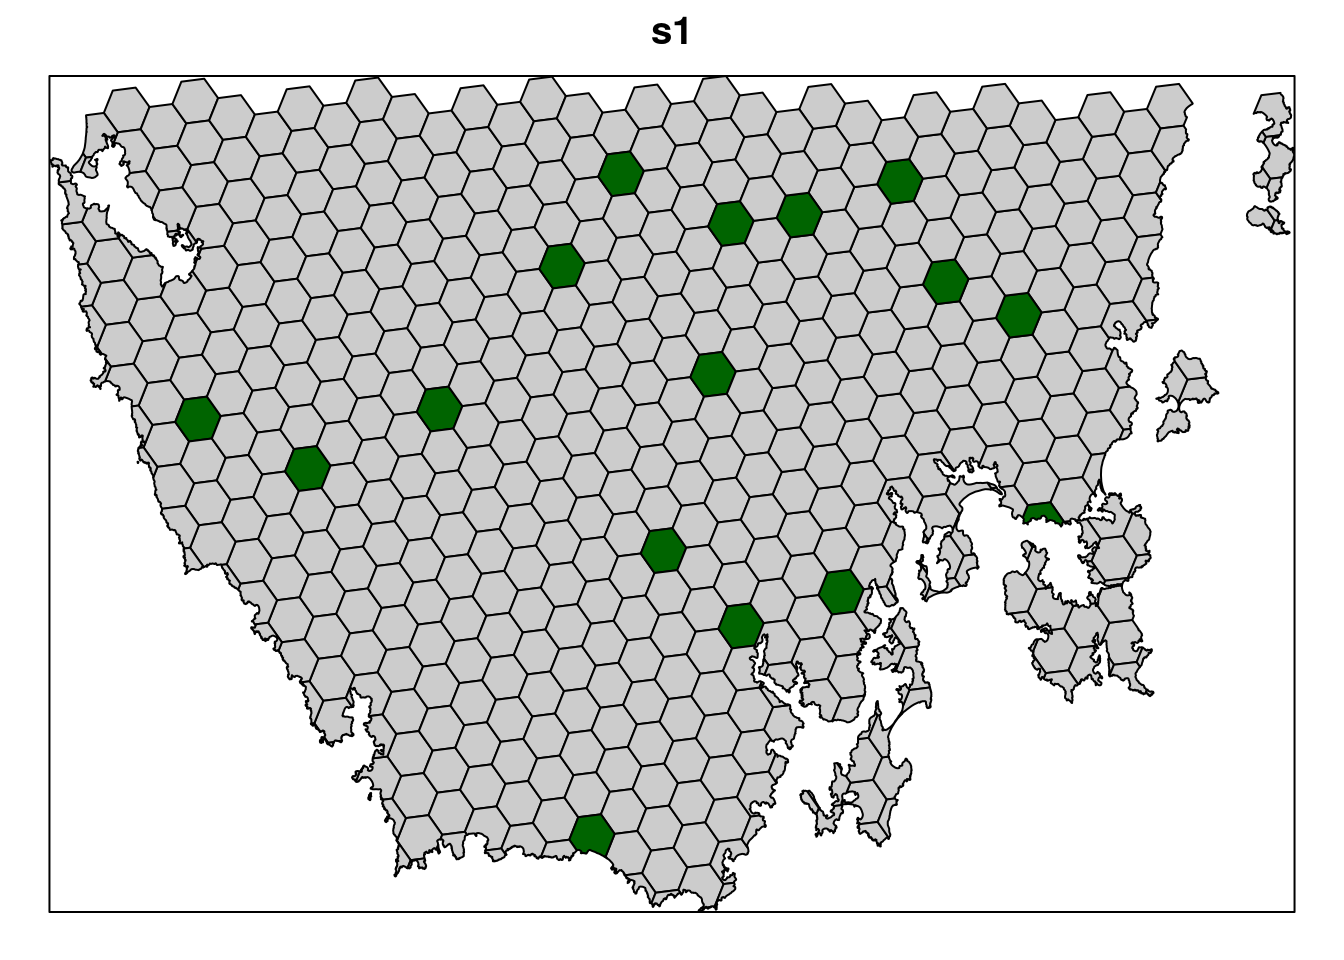
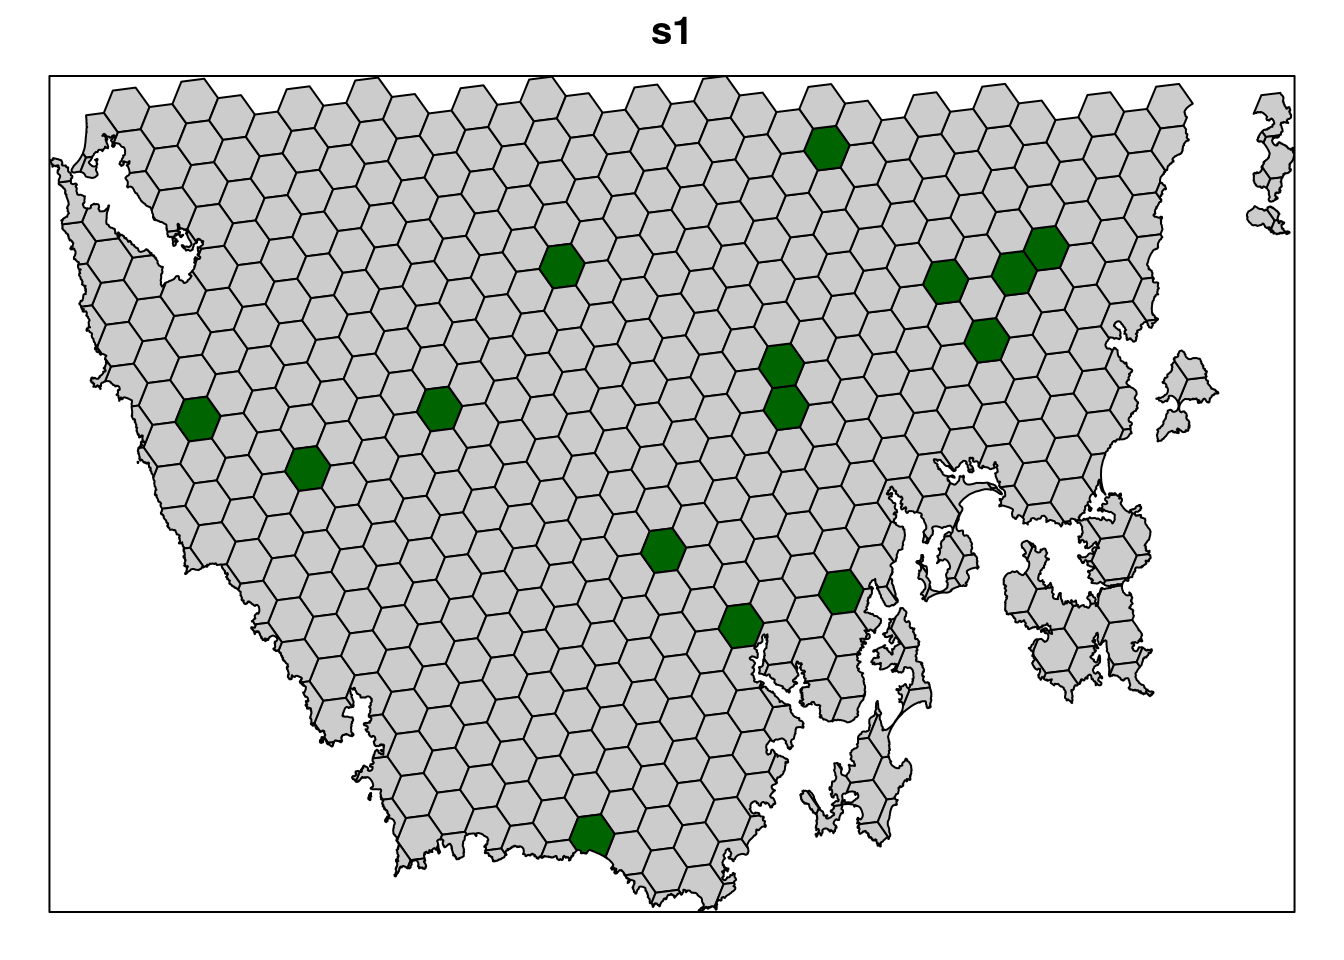
Update the book

diff --git a/spatial-prioritizations.html b/spatial-prioritizations.html
@@ -6,7 +6,7 @@
   <meta http-equiv="X-UA-Compatible" content="IE=edge" />
   <title>Chapter 5 Spatial prioritizations | PRIORITIZR WORKSHOP MANUAL</title>
   <meta name="description" content="Manual for the prioritizr workshop held at Massey University, Palmerston North, New Zealand." />
-  <meta name="generator" content="bookdown 0.21.9 and GitBook 2.6.7" />
+  <meta name="generator" content="bookdown 0.21.10 and GitBook 2.6.7" />
 
   <meta property="og:title" content="Chapter 5 Spatial prioritizations | PRIORITIZR WORKSHOP MANUAL" />
   <meta property="og:type" content="book" />
@@ -24,7 +24,7 @@
 <meta name="author" content="Jeffrey O. Hanson" />
 
 
-<meta name="date" content="2021-04-07" />
+<meta name="date" content="2021-04-12" />
 
   <meta name="viewport" content="width=device-width, initial-scale=1" />
   <meta name="apple-mobile-web-app-capable" content="yes" />
@@ -244,13 +244,13 @@ code span.wa { color: #60a0b0; font-weight: bold; font-style: italic; } /* Warni
 <pre><code>## # A tibble: 1 x 2
 ##   summary  cost
 ##   &lt;chr&gt;   &lt;dbl&gt;
-## 1 overall    16</code></pre>
+## 1 overall    15</code></pre>
 <div class="sourceCode" id="cb99"><pre class="sourceCode r"><code class="sourceCode r"><span id="cb99-1"><a href="spatial-prioritizations.html#cb99-1"></a><span class="co"># calculate total cost of the prioritization</span></span>
 <span id="cb99-2"><a href="spatial-prioritizations.html#cb99-2"></a><span class="kw">eval_cost_summary</span>(p1, s1[, <span class="st">&quot;solution_1&quot;</span>])</span></code></pre></div>
 <pre><code>## # A tibble: 1 x 2
 ##   summary  cost
 ##   &lt;chr&gt;   &lt;dbl&gt;
-## 1 overall  390.</code></pre>
+## 1 overall  385.</code></pre>
 <div class="sourceCode" id="cb101"><pre class="sourceCode r"><code class="sourceCode r"><span id="cb101-1"><a href="spatial-prioritizations.html#cb101-1"></a><span class="co"># plot solution</span></span>
 <span id="cb101-2"><a href="spatial-prioritizations.html#cb101-2"></a><span class="co"># selected = green, not selected = grey</span></span>
 <span id="cb101-3"><a href="spatial-prioritizations.html#cb101-3"></a><span class="kw">spplot</span>(s1, <span class="st">&quot;solution_1&quot;</span>, <span class="dt">col.regions =</span> <span class="kw">c</span>(<span class="st">&quot;grey80&quot;</span>, <span class="st">&quot;darkgreen&quot;</span>), <span class="dt">main =</span> <span class="st">&quot;s1&quot;</span>,</span>
@@ -387,7 +387,7 @@ code span.wa { color: #60a0b0; font-weight: bold; font-style: italic; } /* Warni
 <div id="penalizing-fragmentation" class="section level2">
 <h2><span class="header-section-number">5.4</span> Penalizing fragmentation</h2>
 <p>Plans for protected area systems should promote connectivity. However, the prioritizations we have made so far have been highly fragmented. To address this issue, we can add penalties to our conservation planning problem to penalize fragmentation. These penalties work by specifying a trade-off between the primary objective (here, solution cost) and fragmentation (i.e. total exposed boundary length) using a penalty value. If we set the penalty value too low, then we will end up with a solution that is nearly identical to the previous solution. If we set the penalty value too high, then prioritizr will (1) take a long time to solve the problem and (2) we will end up with a solution that contains lots of extra planning units that are not needed. This is because the minimizing fragmentation is considered so much more important than solution cost that the optimal solution is simply to select as many planning units as possible.</p>
-<p>As a rule of thumb, we generally want penalty values between 0.00001 and 0.01. However, finding a useful penalty value requires calibration. The “correct” penalty value depends on the size of the planning units, the main objective values (e.g. cost values), and the effect of fragmentation on biodiversity persistence. Let’s create a new problem that is similar to our previous problem (<code>p4</code>)—except that it contains boundary length penalties and a slightly higher optimality gap to reduce runtime (default is 0.1)—and solve it. Since our planning unit data is in a spatial format (i.e. vector or raster data), prioritizr can automatically calculate the boundary data for us.</p>
+<p>As a rule of thumb, we generally want penalty values between 0.00001 and 0.01. However, finding a useful penalty value requires calibration. The “correct” penalty value depends on the size of the planning units, the main objective values (e.g. cost values), and the effect of fragmentation on biodiversity persistence. Let’s create a new problem that is similar to our previous problem (<code>p4</code>)—except that it contains boundary length penalties—and solve it. Since our planning unit data is in a spatial format (i.e. vector or raster data), prioritizr can automatically calculate the boundary data for us.</p>
 
 <div class="sourceCode" id="cb114"><pre class="sourceCode r"><code class="sourceCode r"><span id="cb114-1"><a href="spatial-prioritizations.html#cb114-1"></a><span class="co"># make prioritization problem</span></span>
 <span id="cb114-2"><a href="spatial-prioritizations.html#cb114-2"></a>p5 &lt;-<span class="st"> </span><span class="kw">problem</span>(pu_data, veg_data, <span class="dt">cost_column =</span> <span class="st">&quot;cost&quot;</span>) <span class="op">%&gt;%</span></span>
@@ -408,8 +408,8 @@ code span.wa { color: #60a0b0; font-weight: bold; font-style: italic; } /* Warni
 ##   objective:      Minimum set objective 
 ##   targets:        Relative targets [targets (min: 0.1, max: 0.1)]
 ##   decisions:      Binary decision 
-##   constraints:    &lt;Locked out planning units [6 locked units]
-##                    Locked in planning units [198 locked units]&gt;
+##   constraints:    &lt;Locked in planning units [198 locked units]
+##                    Locked out planning units [6 locked units]&gt;
 ##   penalties:      &lt;Boundary penalties [edge factor (min: 0.5, max: 0.5), penalty (0.001), zones]&gt;
 ##   portfolio:      default
 ##   solver:         Lpsymphony [first_feasible (0), gap (0.1), time_limit (2147483647), verbose (1)]</code></pre>
@@ -437,7 +437,7 @@ code span.wa { color: #60a0b0; font-weight: bold; font-style: italic; } /* Warni
 <div class="rmdquestion">
 <ol style="list-style-type: decimal">
 <li>What is the cost the fourth (<code>s4</code>) and fifth (<code>s5</code>) solutions? Why does the fifth solution (<code>s5</code>) cost more than the fourth (<code>s4</code>) solution?</li>
-<li>Try setting the penalty value to 0.000000001 (i.e. <code>1e-9</code>) instead of 0.0005. What is the cost of the solution now? Is it different from the fourth solution (<code>s4</code>) (hint: try plotting the solutions to visualize them)? Is this is a useful penalty value? Why (or why not)?</li>
+<li>Try setting the penalty value to 0.000000001 (i.e. <code>1e-9</code>) instead of 0.001. What is the cost of the solution now? Is it different from the fourth solution (<code>s4</code>) (hint: try plotting the solutions to visualize them)? Is this is a useful penalty value? Why (or why not)?</li>
 <li>Try setting the penalty value to 0.5. What is the cost of the solution now? Is it different from the fourth solution (<code>s4</code>) (hint: try plotting the solutions to visualize them)? Is this a useful penalty value? Why (or why not)?</li>
 </ol>
 </div>
@@ -474,6 +474,7 @@ gitbook.start({
 "weibo": false,
 "instapaper": false,
 "vk": false,
+"whatsapp": false,
 "all": ["facebook", "twitter", "linkedin", "weibo", "instapaper"]
 },
 "fontsettings": {

diff --git a/session-information.html b/session-information.html
@@ -6,7 +6,7 @@
   <meta http-equiv="X-UA-Compatible" content="IE=edge" />
   <title>Chapter 7 Session information | PRIORITIZR WORKSHOP MANUAL</title>
   <meta name="description" content="Manual for the prioritizr workshop held at Massey University, Palmerston North, New Zealand." />
-  <meta name="generator" content="bookdown 0.21.9 and GitBook 2.6.7" />
+  <meta name="generator" content="bookdown 0.21.10 and GitBook 2.6.7" />
 
   <meta property="og:title" content="Chapter 7 Session information | PRIORITIZR WORKSHOP MANUAL" />
   <meta property="og:type" content="book" />
@@ -24,7 +24,7 @@
 <meta name="author" content="Jeffrey O. Hanson" />
 
 
-<meta name="date" content="2021-04-07" />
+<meta name="date" content="2021-04-12" />
 
   <meta name="viewport" content="width=device-width, initial-scale=1" />
   <meta name="apple-mobile-web-app-capable" content="yes" />
@@ -208,9 +208,9 @@ code span.wa { color: #60a0b0; font-weight: bold; font-style: italic; } /* Warni
 ## [1] stats     graphics  grDevices utils     datasets  methods   base     
 ## 
 ## other attached packages:
-##  [1] dplyr_1.0.5      gridExtra_2.3    assertthat_0.2.1 scales_1.1.1    
-##  [5] units_0.7-1      rgeos_0.5-5      rgdal_1.5-23     prioritizr_7.0.1
-##  [9] proto_1.0.0      sf_0.9-8         raster_3.4-5     sp_1.4-5        
+##  [1] dplyr_1.0.5        gridExtra_2.3      assertthat_0.2.1   scales_1.1.1      
+##  [5] units_0.7-1        rgeos_0.5-5        rgdal_1.5-23       prioritizr_7.0.1.1
+##  [9] proto_1.0.0        sf_0.9-8           raster_3.4-5       sp_1.4-5          
 ## 
 ## loaded via a namespace (and not attached):
 ##  [1] tidyselect_1.1.0    xfun_0.22           slam_0.1-48        
@@ -224,7 +224,7 @@ code span.wa { color: #60a0b0; font-weight: bold; font-style: italic; } /* Warni
 ## [25] parallel_4.0.5      class_7.3-18        fansi_0.4.2        
 ## [28] highr_0.8           exactextractr_0.5.1 Rcpp_1.0.6         
 ## [31] KernSmooth_2.23-18  classInt_0.4-3      lpsymphony_1.18.0  
-## [34] digest_0.6.27       stringi_1.5.3       bookdown_0.21.9    
+## [34] digest_0.6.27       stringi_1.5.3       bookdown_0.21.10   
 ## [37] grid_4.0.5          cli_2.4.0           tools_4.0.5        
 ## [40] magrittr_2.0.1      proxy_0.4-25        tibble_3.1.0       
 ## [43] crayon_1.4.1        pkgconfig_2.0.3     ellipsis_0.3.1     
@@ -260,6 +260,7 @@ gitbook.start({
 "weibo": false,
 "instapaper": false,
 "vk": false,
+"whatsapp": false,
 "all": ["facebook", "twitter", "linkedin", "weibo", "instapaper"]
 },
 "fontsettings": {

diff --git a/index.html b/index.html
@@ -6,7 +6,7 @@
   <meta http-equiv="X-UA-Compatible" content="IE=edge" />
   <title>PRIORITIZR WORKSHOP MANUAL</title>
   <meta name="description" content="Manual for the prioritizr workshop held at Massey University, Palmerston North, New Zealand." />
-  <meta name="generator" content="bookdown 0.21.9 and GitBook 2.6.7" />
+  <meta name="generator" content="bookdown 0.21.10 and GitBook 2.6.7" />
 
   <meta property="og:title" content="PRIORITIZR WORKSHOP MANUAL" />
   <meta property="og:type" content="book" />
@@ -24,7 +24,7 @@
 <meta name="author" content="Jeffrey O. Hanson" />
 
 
-<meta name="date" content="2021-04-07" />
+<meta name="date" content="2021-04-12" />
 
   <meta name="viewport" content="width=device-width, initial-scale=1" />
   <meta name="apple-mobile-web-app-capable" content="yes" />
@@ -189,7 +189,7 @@ code span.wa { color: #60a0b0; font-weight: bold; font-style: italic; } /* Warni
 <div id="header">
 <h1 class="title">PRIORITIZR WORKSHOP MANUAL</h1>
 <p class="author"><em>Jeffrey O. Hanson</em></p>
-<p class="date" style="margin-top: 1.5em;"><em>2021-04-07</em></p>
+<p class="date" style="margin-top: 1.5em;"><em>2021-04-12</em></p>
 </div>
 <div id="welcome" class="section level1">
 <h1><span class="header-section-number">Chapter 1</span> Welcome!</h1>
@@ -226,6 +226,7 @@ gitbook.start({
 "weibo": false,
 "instapaper": false,
 "vk": false,
+"whatsapp": false,
 "all": ["facebook", "twitter", "linkedin", "weibo", "instapaper"]
 },
 "fontsettings": {

diff --git a/acknowledgements.html b/acknowledgements.html
@@ -6,7 +6,7 @@
   <meta http-equiv="X-UA-Compatible" content="IE=edge" />
   <title>Chapter 6 Acknowledgements | PRIORITIZR WORKSHOP MANUAL</title>
   <meta name="description" content="Manual for the prioritizr workshop held at Massey University, Palmerston North, New Zealand." />
-  <meta name="generator" content="bookdown 0.21.9 and GitBook 2.6.7" />
+  <meta name="generator" content="bookdown 0.21.10 and GitBook 2.6.7" />
 
   <meta property="og:title" content="Chapter 6 Acknowledgements | PRIORITIZR WORKSHOP MANUAL" />
   <meta property="og:type" content="book" />
@@ -24,7 +24,7 @@
 <meta name="author" content="Jeffrey O. Hanson" />
 
 
-<meta name="date" content="2021-04-07" />
+<meta name="date" content="2021-04-12" />
 
   <meta name="viewport" content="width=device-width, initial-scale=1" />
   <meta name="apple-mobile-web-app-capable" content="yes" />
@@ -219,6 +219,7 @@ gitbook.start({
 "weibo": false,
 "instapaper": false,
 "vk": false,
+"whatsapp": false,
 "all": ["facebook", "twitter", "linkedin", "weibo", "instapaper"]
 },
 "fontsettings": {

diff --git a/gap-analysis.html b/gap-analysis.html
@@ -6,7 +6,7 @@
   <meta http-equiv="X-UA-Compatible" content="IE=edge" />
   <title>Chapter 4 Gap analysis | PRIORITIZR WORKSHOP MANUAL</title>
   <meta name="description" content="Manual for the prioritizr workshop held at Massey University, Palmerston North, New Zealand." />
-  <meta name="generator" content="bookdown 0.21.9 and GitBook 2.6.7" />
+  <meta name="generator" content="bookdown 0.21.10 and GitBook 2.6.7" />
 
   <meta property="og:title" content="Chapter 4 Gap analysis | PRIORITIZR WORKSHOP MANUAL" />
   <meta property="og:type" content="book" />
@@ -24,7 +24,7 @@
 <meta name="author" content="Jeffrey O. Hanson" />
 
 
-<meta name="date" content="2021-04-07" />
+<meta name="date" content="2021-04-12" />
 
   <meta name="viewport" content="width=device-width, initial-scale=1" />
   <meta name="apple-mobile-web-app-capable" content="yes" />
@@ -423,6 +423,7 @@ gitbook.start({
 "weibo": false,
 "instapaper": false,
 "vk": false,
+"whatsapp": false,
 "all": ["facebook", "twitter", "linkedin", "weibo", "instapaper"]
 },
 "fontsettings": {

diff --git a/introduction.html b/introduction.html
@@ -6,7 +6,7 @@
   <meta http-equiv="X-UA-Compatible" content="IE=edge" />
   <title>Chapter 2 Introduction | PRIORITIZR WORKSHOP MANUAL</title>
   <meta name="description" content="Manual for the prioritizr workshop held at Massey University, Palmerston North, New Zealand." />
-  <meta name="generator" content="bookdown 0.21.9 and GitBook 2.6.7" />
+  <meta name="generator" content="bookdown 0.21.10 and GitBook 2.6.7" />
 
   <meta property="og:title" content="Chapter 2 Introduction | PRIORITIZR WORKSHOP MANUAL" />
   <meta property="og:type" content="book" />
@@ -24,7 +24,7 @@
 <meta name="author" content="Jeffrey O. Hanson" />
 
 
-<meta name="date" content="2021-04-07" />
+<meta name="date" content="2021-04-12" />
 
   <meta name="viewport" content="width=device-width, initial-scale=1" />
   <meta name="apple-mobile-web-app-capable" content="yes" />
@@ -256,6 +256,7 @@ gitbook.start({
 "weibo": false,
 "instapaper": false,
 "vk": false,
+"whatsapp": false,
 "all": ["facebook", "twitter", "linkedin", "weibo", "instapaper"]
 },
 "fontsettings": {

diff --git a/references.html b/references.html
@@ -6,7 +6,7 @@
   <meta http-equiv="X-UA-Compatible" content="IE=edge" />
   <title>Chapter 8 References | PRIORITIZR WORKSHOP MANUAL</title>
   <meta name="description" content="Manual for the prioritizr workshop held at Massey University, Palmerston North, New Zealand." />
-  <meta name="generator" content="bookdown 0.21.9 and GitBook 2.6.7" />
+  <meta name="generator" content="bookdown 0.21.10 and GitBook 2.6.7" />
 
   <meta property="og:title" content="Chapter 8 References | PRIORITIZR WORKSHOP MANUAL" />
   <meta property="og:type" content="book" />
@@ -24,7 +24,7 @@
 <meta name="author" content="Jeffrey O. Hanson" />
 
 
-<meta name="date" content="2021-04-07" />
+<meta name="date" content="2021-04-12" />
 
   <meta name="viewport" content="width=device-width, initial-scale=1" />
   <meta name="apple-mobile-web-app-capable" content="yes" />
@@ -227,6 +227,7 @@ gitbook.start({
 "weibo": false,
 "instapaper": false,
 "vk": false,
+"whatsapp": false,
 "all": ["facebook", "twitter", "linkedin", "weibo", "instapaper"]
 },
 "fontsettings": {

diff --git a/data.html b/data.html
@@ -6,7 +6,7 @@
   <meta http-equiv="X-UA-Compatible" content="IE=edge" />
   <title>Chapter 3 Data | PRIORITIZR WORKSHOP MANUAL</title>
   <meta name="description" content="Manual for the prioritizr workshop held at Massey University, Palmerston North, New Zealand." />
-  <meta name="generator" content="bookdown 0.21.9 and GitBook 2.6.7" />
+  <meta name="generator" content="bookdown 0.21.10 and GitBook 2.6.7" />
 
   <meta property="og:title" content="Chapter 3 Data | PRIORITIZR WORKSHOP MANUAL" />
   <meta property="og:type" content="book" />
@@ -24,7 +24,7 @@
 <meta name="author" content="Jeffrey O. Hanson" />
 
 
-<meta name="date" content="2021-04-07" />
+<meta name="date" content="2021-04-12" />
 
   <meta name="viewport" content="width=device-width, initial-scale=1" />
   <meta name="apple-mobile-web-app-capable" content="yes" />
@@ -450,6 +450,7 @@ gitbook.start({
 "weibo": false,
 "instapaper": false,
 "vk": false,
+"whatsapp": false,
 "all": ["facebook", "twitter", "linkedin", "weibo", "instapaper"]
 },
 "fontsettings": {

diff --git a/libs/gitbook-2.6.7/js/plugin-sharing.js b/libs/gitbook-2.6.7/js/plugin-sharing.js
@@ -57,10 +57,21 @@ gitbook.require(["gitbook", "lodash", "jQuery"], function(gitbook, _, $) {
                 e.preventDefault();
                 window.open("http://vkontakte.ru/share.php?url="+encodeURIComponent(location.href));
             }
-        }
+        },
+        'whatsapp': {
+            'label': 'Whatsapp',
+            'icon': 'fa fa-whatsapp',
+            'onClick': function(e) {
+                e.preventDefault();
+                var url = encodeURIComponent(location.href);
+                window.open((isMobile() ? "whatsapp://send" : "https://web.whatsapp.com/send") + "?text=" + url);
+            }
+        },
     };
 
-
+    function isMobile() {
+      return !!navigator.maxTouchPoints;
+    }
 
     gitbook.events.bind("start", function(e, config) {
         var opts = config.sharing;

diff --git a/libs/gitbook-2.6.7/css/style.css b/libs/gitbook-2.6.7/css/style.css
@@ -10,3 +10,6 @@
 .book .book-summary ul.summary li a span {display:inline;padding:initial;overflow:visible;cursor:auto;opacity:1;}
 /* show arrow before summary tag as in bootstrap */
 details > summary {display:list-item;cursor:pointer;}
+/*add whatsapp icon from FA 5.1.1
+TODO: remove when updating fontawesome*/
+.fa-whatsapp:before{content:"\f232"}

diff --git a/prioritizr-workshop-manual.tex b/prioritizr-workshop-manual.tex
@@ -222,7 +222,7 @@
 
 \title{PRIORITIZR WORKSHOP MANUAL}
 \author{Jeffrey O. Hanson}
-\date{2021-04-07}
+\date{2021-04-12}
 
 \begin{document}
 \maketitle
@@ -1427,8 +1427,8 @@ Next, let's lock out highly degraded areas. Similar to before, this information 
 ##   objective:      Minimum set objective 
 ##   targets:        Relative targets [targets (min: 0.1, max: 0.1)]
 ##   decisions:      Binary decision 
-##   constraints:    <Locked out planning units [6 locked units]
-##                    Locked in planning units [198 locked units]>
+##   constraints:    <Locked in planning units [198 locked units]
+##                    Locked out planning units [6 locked units]>
 ##   penalties:      <none>
 ##   portfolio:      default
 ##   solver:         Lpsymphony [first_feasible (0), gap (0.1), time_limit (2147483647), verbose (1)]
@@ -1474,7 +1474,7 @@ Now, let's compare the solutions.
 
 Plans for protected area systems should promote connectivity. However, the prioritizations we have made so far have been highly fragmented. To address this issue, we can add penalties to our conservation planning problem to penalize fragmentation. These penalties work by specifying a trade-off between the primary objective (here, solution cost) and fragmentation (i.e.~total exposed boundary length) using a penalty value. If we set the penalty value too low, then we will end up with a solution that is nearly identical to the previous solution. If we set the penalty value too high, then prioritizr will (1) take a long time to solve the problem and (2) we will end up with a solution that contains lots of extra planning units that are not needed. This is because the minimizing fragmentation is considered so much more important than solution cost that the optimal solution is simply to select as many planning units as possible.
 
-As a rule of thumb, we generally want penalty values between 0.00001 and 0.01. However, finding a useful penalty value requires calibration. The ``correct'' penalty value depends on the size of the planning units, the main objective values (e.g.~cost values), and the effect of fragmentation on biodiversity persistence. Let's create a new problem that is similar to our previous problem (\texttt{p4})---except that it contains boundary length penalties and a slightly higher optimality gap to reduce runtime (default is 0.1)---and solve it. Since our planning unit data is in a spatial format (i.e.~vector or raster data), prioritizr can automatically calculate the boundary data for us.
+As a rule of thumb, we generally want penalty values between 0.00001 and 0.01. However, finding a useful penalty value requires calibration. The ``correct'' penalty value depends on the size of the planning units, the main objective values (e.g.~cost values), and the effect of fragmentation on biodiversity persistence. Let's create a new problem that is similar to our previous problem (\texttt{p4})---except that it contains boundary length penalties---and solve it. Since our planning unit data is in a spatial format (i.e.~vector or raster data), prioritizr can automatically calculate the boundary data for us.
 
 \clearpage
 
@@ -1552,7 +1552,7 @@ Now let's compare the solutions to the problems with (\texttt{s5}) and without (
 \item
   What is the cost the fourth (\texttt{s4}) and fifth (\texttt{s5}) solutions? Why does the fifth solution (\texttt{s5}) cost more than the fourth (\texttt{s4}) solution?
 \item
-  Try setting the penalty value to 0.000000001 (i.e.~\texttt{1e-9}) instead of 0.0005. What is the cost of the solution now? Is it different from the fourth solution (\texttt{s4}) (hint: try plotting the solutions to visualize them)? Is this is a useful penalty value? Why (or why not)?
+  Try setting the penalty value to 0.000000001 (i.e.~\texttt{1e-9}) instead of 0.001. What is the cost of the solution now? Is it different from the fourth solution (\texttt{s4}) (hint: try plotting the solutions to visualize them)? Is this is a useful penalty value? Why (or why not)?
 \item
   Try setting the penalty value to 0.5. What is the cost of the solution now? Is it different from the fourth solution (\texttt{s4}) (hint: try plotting the solutions to visualize them)? Is this a useful penalty value? Why (or why not)?
 \end{enumerate}
@@ -1592,9 +1592,9 @@ Many thanks to \href{https://icons8.com}{Icons8} for providing the icons used in
 ## [1] stats     graphics  grDevices utils     datasets  methods   base     
 ## 
 ## other attached packages:
-##  [1] dplyr_1.0.5      gridExtra_2.3    assertthat_0.2.1 scales_1.1.1    
-##  [5] units_0.7-1      rgeos_0.5-5      rgdal_1.5-23     prioritizr_7.0.1
-##  [9] proto_1.0.0      sf_0.9-8         raster_3.4-5     sp_1.4-5        
+##  [1] dplyr_1.0.5        gridExtra_2.3      assertthat_0.2.1   scales_1.1.1      
+##  [5] units_0.7-1        rgeos_0.5-5        rgdal_1.5-23       prioritizr_7.0.1.1
+##  [9] proto_1.0.0        sf_0.9-8           raster_3.4-5       sp_1.4-5          
 ## 
 ## loaded via a namespace (and not attached):
 ##  [1] tidyselect_1.1.0    xfun_0.22           slam_0.1-48        
@@ -1608,7 +1608,7 @@ Many thanks to \href{https://icons8.com}{Icons8} for providing the icons used in
 ## [25] parallel_4.0.5      class_7.3-18        fansi_0.4.2        
 ## [28] exactextractr_0.5.1 Rcpp_1.0.6          KernSmooth_2.23-18 
 ## [31] classInt_0.4-3      lpsymphony_1.18.0   digest_0.6.27      
-## [34] stringi_1.5.3       bookdown_0.21.9     grid_4.0.5         
+## [34] stringi_1.5.3       bookdown_0.21.10    grid_4.0.5         
 ## [37] cli_2.4.0           tools_4.0.5         magrittr_2.0.1     
 ## [40] proxy_0.4-25        tibble_3.1.0        crayon_1.4.1       
 ## [43] pkgconfig_2.0.3     ellipsis_0.3.1      Matrix_1.3-2       
